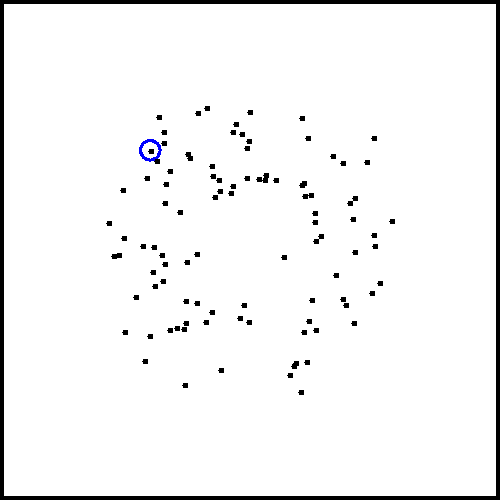
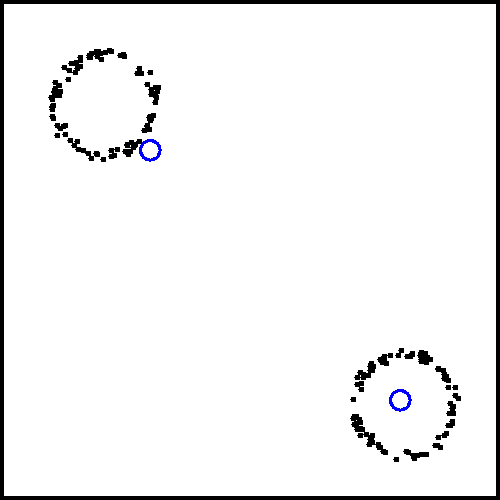
Exo 2 complement + 1 complement mais ne marche pas

diff --git a/TP/src/main/java/com/example/tp2/MultiCercle.java b/TP/src/main/java/com/example/tp2/MultiCercle.java
@@ -1,0 +1,56 @@
+package com.example.tp2;
+
+public class MultiCercle {
+
+    public static void main(String[] args) {
+        //test de l'ensemble et sauvegarde
+
+        // creer un GenerateurCercle autour du cercle de centre (200,200) de rayon 100
+        GenerateurCercle generateur1 = new GenerateurCercle(400,400,50,10);
+        GenerateurCercle generateur2 = new GenerateurCercle(100,100,50,10);
+
+        // on cree un ProblemeRF de 100 points avec ce generateur
+        ProblemeCercles pb = new ProblemeCercles(100, generateur1,generateur2);
+
+        // on creer un Cercle
+        
+        double alpha = 0.001;
+        double d = 0.1;
+        Double[] tab1 = {150.0,150.0,10.0};
+        Cercle c1 = new Cercle(tab1);
+        Double[] tab2 = {400.0,400.0,10.0};
+        Cercle c2 = new Cercle(tab2);
+        SauveImage image = new SauveImage(500,500);
+        image.dessinerCercle(c1);
+        image.dessinerCercle(c2);
+        image.dessinerPoints(pb.points);
+        image.sauverImage("test_imageDebut.png");
+        
+
+        for(int i=0;i<100000;i++){
+            tab1[0] = tab1[0] - alpha * (pb.evaluer(new Cercle(new Double[]{tab1[0]+d,tab1[1],tab1[2]}))-pb.evaluer(new Cercle(new Double[]{tab1[0]-d,tab1[1],tab1[2]})))/2*d;
+            tab1[1] = tab1[1] - alpha * (pb.evaluer(new Cercle(new Double[]{tab1[0],tab1[1]+d,tab1[2]}))-pb.evaluer(new Cercle(new Double[]{tab1[0],tab1[1]-d,tab1[2]})))/2*d;
+            tab1[2] = tab1[2] - alpha * (pb.evaluer(new Cercle(new Double[]{tab1[0],tab1[1],tab1[2]+d}))-pb.evaluer(new Cercle(new Double[]{tab1[0],tab1[1],tab1[2]-d})))/2*d;
+
+            tab2[0] = tab2[0] - alpha * (pb.evaluer(new Cercle(new Double[]{tab2[0]+d,tab2[1],tab2[2]}))-pb.evaluer(new Cercle(new Double[]{tab2[0]-d,tab2[1],tab2[2]})))/2*d;
+            tab2[1] = tab2[1] - alpha * (pb.evaluer(new Cercle(new Double[]{tab2[0],tab2[1]+d,tab2[2]}))-pb.evaluer(new Cercle(new Double[]{tab2[0],tab2[1]-d,tab2[2]})))/2*d;
+            tab2[2] = tab2[2] - alpha * (pb.evaluer(new Cercle(new Double[]{tab2[0],tab2[1],tab2[2]+d}))-pb.evaluer(new Cercle(new Double[]{tab2[0],tab2[1],tab2[2]-d})))/2*d;
+
+        }
+        c1 = new Cercle(tab1);
+        c2 = new Cercle(tab2);
+        System.out.println("x="+c1.getX() +"  ----- y="+ c1.getY() +"  ----- centre ="+ c1.getRayon());
+        System.out.println("x="+c2.getX() +"  ----- y="+ c2.getY() +"  ----- centre ="+ c2.getRayon());
+
+        // on creer l'image et on ajoute les éléments
+        image = new SauveImage(500,500);
+        image.dessinerCercle(c1);
+        image.dessinerCercle(c2);
+        image.dessinerPoints(pb.points);
+        image.sauverImage("test_imageFinal.png");
+
+
+
+    }
+}
+

diff --git a/TP/src/main/java/com/example/tp2/Main.java b/TP/src/main/java/com/example/tp2/Main.java
@@ -5,10 +5,11 @@ public class Main {
         //test de l'ensemble et sauvegarde
 
         // creer un GenerateurCercle autour du cercle de centre (200,200) de rayon 100
-        GenerateurCercle generateur = new GenerateurCercle(200,200,100,100);
+        GenerateurCercle generateur1 = new GenerateurCercle(300,300,50,20);
 
         // on cree un ProblemeRF de 100 points avec ce generateur
-        ProblemeRF pb = new ProblemeRF(100, generateur);
+        ProblemeRF pb1 = new ProblemeRF(100, generateur1);
+
 
         // on creer un Cercle
         
@@ -18,22 +19,22 @@ public class Main {
         Cercle c = new Cercle(tab);
         SauveImage image = new SauveImage(500,500);
         image.dessinerCercle(c);
-        image.dessinerPoints(pb.points);
+        image.dessinerPoints(pb1.points);
         image.sauverImage("test_imageDebut.png");
         
 
-        for(int i=0;i<100000;i++){
-            tab[0] = tab[0] - alpha * (pb.evaluer(new Cercle(new Double[]{tab[0]+d,tab[1],tab[2]}))-pb.evaluer(new Cercle(new Double[]{tab[0]-d,tab[1],tab[2]})))/2*d;
-            tab[1] = tab[1] - alpha * (pb.evaluer(new Cercle(new Double[]{tab[0],tab[1]+d,tab[2]}))-pb.evaluer(new Cercle(new Double[]{tab[0],tab[1]-d,tab[2]})))/2*d;
-            tab[2] = tab[2] - alpha * (pb.evaluer(new Cercle(new Double[]{tab[0],tab[1],tab[2]+d}))-pb.evaluer(new Cercle(new Double[]{tab[0],tab[1],tab[2]-d})))/2*d;
-        }
+        for(int i=0;i<1000000;i++){
+            tab[0] = tab[0] - alpha * (pb1.evaluer(new Cercle(new Double[]{tab[0]+d,tab[1],tab[2]}))-pb1.evaluer(new Cercle(new Double[]{tab[0]-d,tab[1],tab[2]})))/2*d;
+            tab[1] = tab[1] - alpha * (pb1.evaluer(new Cercle(new Double[]{tab[0],tab[1]+d,tab[2]}))-pb1.evaluer(new Cercle(new Double[]{tab[0],tab[1]-d,tab[2]})))/2*d;
+            tab[2] = tab[2] - alpha * (pb1.evaluer(new Cercle(new Double[]{tab[0],tab[1],tab[2]+d}))-pb1.evaluer(new Cercle(new Double[]{tab[0],tab[1],tab[2]-d})))/2*d;
+       }
         c = new Cercle(tab);
         System.out.println("x="+c.getX() +"  ----- y="+ c.getY() +"  ----- centre ="+ c.getRayon());
 
         // on creer l'image et on ajoute les éléments
         image = new SauveImage(500,500);
         image.dessinerCercle(c);
-        image.dessinerPoints(pb.points);
+        image.dessinerPoints(pb1.points);
         image.sauverImage("test_imageFinal.png");
 
 

diff --git a/TP/src/main/java/com/example/tp2/ProblemeCercles.java b/TP/src/main/java/com/example/tp2/ProblemeCercles.java
@@ -8,7 +8,7 @@ import java.util.List;
 /**
  * represente un ensemble de points 2D
  */
-public class ProblemeRF {
+public class ProblemeCercles {
 
     /**
      * donnees sont un ensemble de point 2D
@@ -18,7 +18,12 @@ public class ProblemeRF {
     /**
      * generateur de points
      */
-    Generateur generateur;
+    Generateur generateur1;
+
+    /**
+     * generateur de points
+     */
+    Generateur generateur2;
 
     /**
      * construit un ensemble de points 2D
@@ -26,14 +31,16 @@ public class ProblemeRF {
      * @param nb  nombre de points
      * @param gen le generateur de points
      */
-    public ProblemeRF(int nb, Generateur gen) {
+    public ProblemeCercles(int nb, Generateur gen1,Generateur gen2) {
         // copie generateur
-        this.generateur = gen;
+        this.generateur1 = gen1;
+        this.generateur2 = gen2;
 
         // genere les points
         this.points = new ArrayList<>();
         for (int i = 0; i < nb; i++) {
-            points.add(gen.getPoint());
+            points.add(gen1.getPoint());
+            points.add(gen2.getPoint());
         }
     }
 
@@ -47,7 +54,9 @@ public class ProblemeRF {
     public double evaluer(Cercle c) {
         double resultat = 0;
         for(int i=0;i<this.points.size();i++){
-            resultat += Math.abs(this.points.get(i).distance(c.getCentre())-c.getRayon());
+            double cache = Math.abs(this.points.get(i).distance(c.getCentre())-c.getRayon());
+            if(cache<200)
+            resultat += cache;
         }
         return resultat;
     }

diff --git a/TP/src/main/java/com/example/tp1/Descente.java b/TP/src/main/java/com/example/tp1/Descente.java
@@ -1,0 +1,24 @@
+package com.example.tp1;
+
+
+public class Descente {
+    
+    private Probleme probleme;
+
+    public Descente(Probleme p){
+        this.probleme = p;
+    }
+
+    public Solution iterer(Solution s,int nb){
+        double x =0;
+        double alpha = 0.1;
+        double dx = 0.0001;
+        s.setX(x);
+
+        for(int i =0;i<nb;i++){
+            s.setX(s.getX()-alpha*(probleme.evaluer(s.modifier(1, dx))-probleme.evaluer(s))/dx);
+        }
+        return s;
+    }
+
+}

diff --git a/TP/src/main/java/com/example/tp1/Valeur1D.java b/TP/src/main/java/com/example/tp1/Valeur1D.java
@@ -1,0 +1,26 @@
+package com.example.tp1;
+
+public class Valeur1D implements Solution {
+
+    private double x;
+
+    @Override
+    public int nbDimensions() {
+        return 1;
+    }
+
+    @Override
+    public Solution modifier(int dim, double delta) {
+        this.x = this.x+delta;
+        return this;
+    }
+
+    public double getX() {
+        return x;
+    }
+    
+    public void setX(double x) {
+        this.x = x;
+    }
+    
+}

diff --git a/TP/src/main/java/com/example/tp1/Main.java b/TP/src/main/java/com/example/tp1/Main.java
@@ -33,6 +33,9 @@ public class Main {
             y0= y0 - alpha* (Fonction2D.Fonction2D(x0,y0+dx)-Fonction2D.Fonction2D(x0,y0))/dx;
         }
         System.out.println("x ="+x0+" ------ y ="+y0+" ----  f(x)="+ Fonction2D.Fonction2D(x0,y0));
+
+        Descente d = new Descente(new Fonction1D());
+        System.out.println(d.iterer(new Valeur1D(),100).getX());
     }
 
 

diff --git a/TP/src/main/java/com/example/tp1/Fonction1D.java b/TP/src/main/java/com/example/tp1/Fonction1D.java
@@ -1,8 +1,13 @@
 package com.example.tp1;
 
-public class Fonction1D {
+public class Fonction1D implements Probleme {
 
     public static double Fonction1D(double x){
         return Math.cos(x)*Math.pow(x-1,2);
+    }
+
+    public double evaluer(Solution s){
+        Valeur1D v = (Valeur1D)s;
+        return Math.cos(v.getX())*Math.pow(v.getX()-1,2);
     }
 }

diff --git a/TP/src/main/java/com/example/tp1/Solution.java b/TP/src/main/java/com/example/tp1/Solution.java
@@ -3,5 +3,7 @@ package com.example.tp1;
 public interface Solution {
 
     public int nbDimensions();
-    public double SolutionDelta(int i,double delta);
+    public Solution modifier(int dim,double delta);
+    public double getX();
+    public void setX(double x);
 }

diff --git a/TP/src/main/java/com/example/tp2/Cercle.java b/TP/src/main/java/com/example/tp2/Cercle.java
@@ -1,9 +1,6 @@
 package com.example.tp2;
 
 
-import java.awt.*;
-import java.awt.image.BufferedImage;
-
 public class Cercle {
 
     /**

diff --git a/TP/src/main/java/com/example/tp1/Probleme.java b/TP/src/main/java/com/example/tp1/Probleme.java
@@ -1,0 +1,6 @@
+package com.example.tp1;
+
+public interface Probleme {
+    
+    public double evaluer(Solution s);
+}
